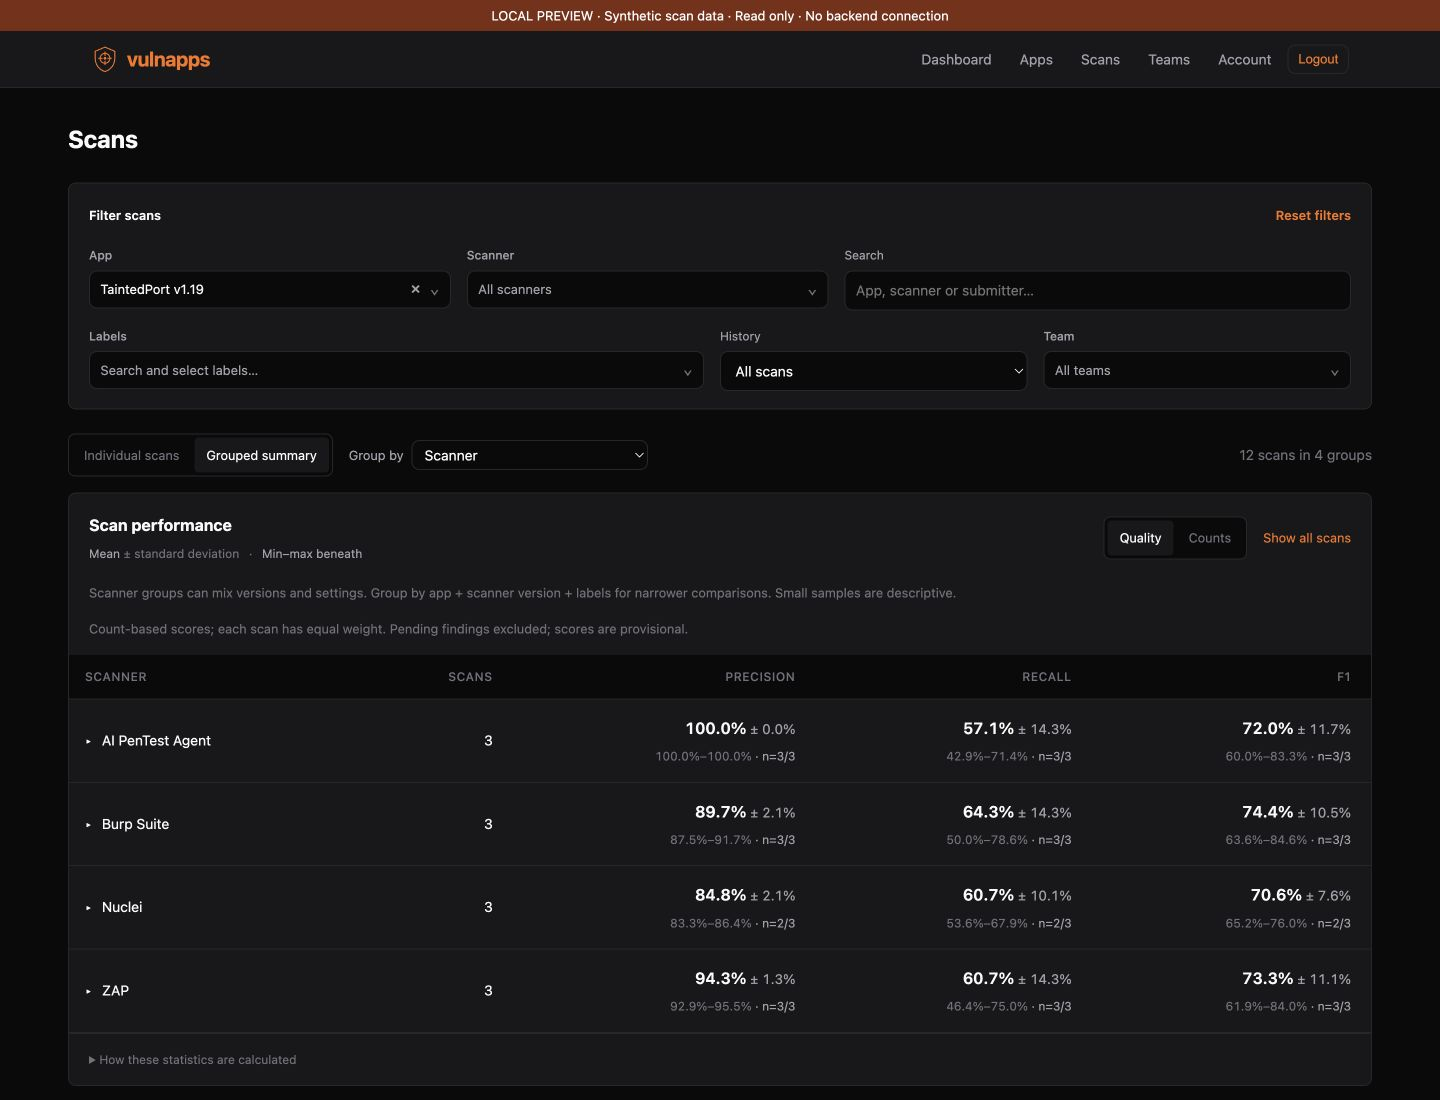
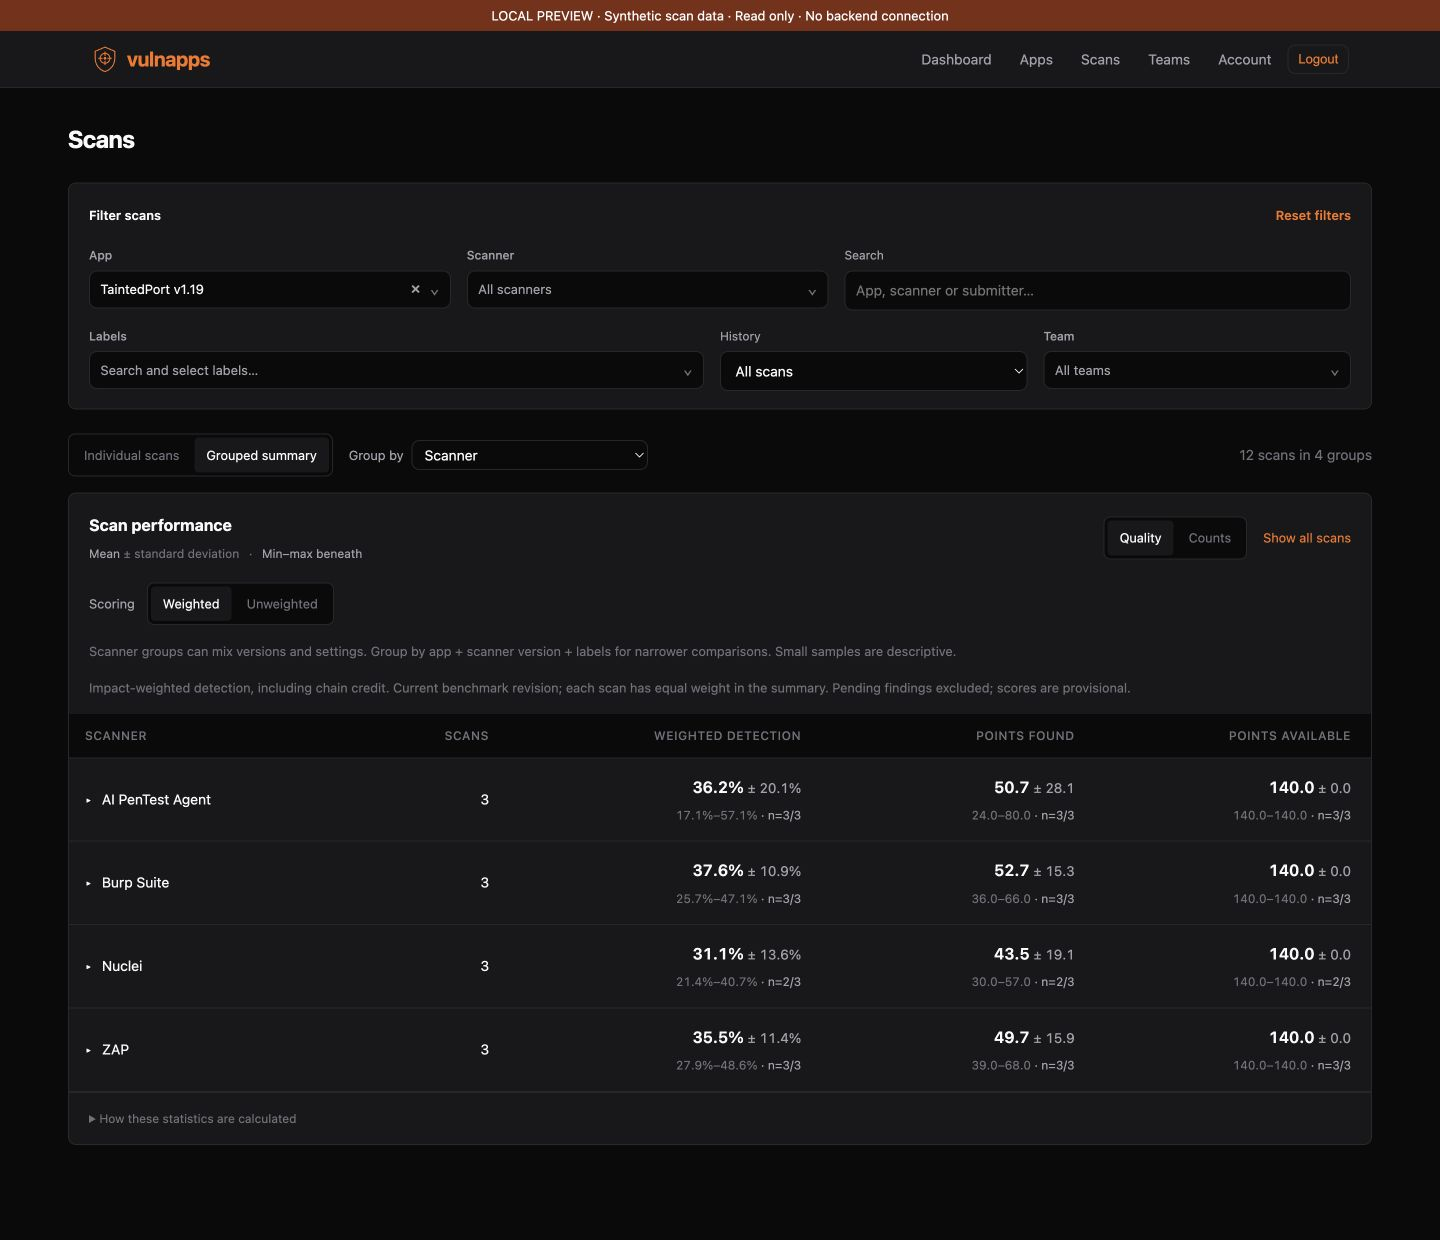
feat(scans): default summaries to weighted scoring

diff --git a/frontend/src/pages/ScansList.jsx b/frontend/src/pages/ScansList.jsx
@@ -37,8 +37,11 @@ export default function ScansList() {
   const [error, setError] = useState('');
   const requestId = useRef(0);
   const [metricView, setMetricView] = useState('quality');
+  const weighting = searchParams.get('weighting') === 'unweighted' ? 'unweighted' : 'weighted';
   const metricColumns = metricView === 'quality'
-    ? [['precision', 'Precision'], ['recall', 'Recall'], ['f1', 'F1']]
+    ? weighting === 'weighted'
+      ? [['weighted_rate', 'Weighted detection'], ['weighted_found', 'Points found'], ['weighted_total', 'Points available']]
+      : [['precision', 'Unweighted precision'], ['recall', 'Unweighted recall'], ['f1', 'Unweighted F1']]
     : [['tp_count', 'TP'], ['fp_count', 'FP'], ['pending_count', 'Pending'], ['fn_count', 'FN']];
   const [expanded, setExpanded] = useState(new Set());
   const groupBy = Object.hasOwn(scanGroupOptions, searchParams.get('group_by')) ? searchParams.get('group_by') : '';
@@ -60,6 +63,7 @@ export default function ScansList() {
   const queryParams = new URLSearchParams(Object.entries(params).filter(([, value]) => value));
   labelValues.forEach(label => queryParams.append('label', label));
   if (labelValues.length) queryParams.set('label_match', labelMatch);
+  if (groupBy) queryParams.set('include_metrics', 'true');
   const query = queryParams.toString();
   const fetchScans = () => {
     const id = ++requestId.current;
@@ -67,7 +71,7 @@ export default function ScansList() {
     return api.get(`/scans?${query}`).then(d => {
       if (id === requestId.current) { setData(d); setLoading(false); }
     }).catch(err => {
-      if (id === requestId.current) { setError(err.message); setLoading(false); }
+      if (id === requestId.current) { setData(null); setError(err.message); setLoading(false); }
     });
   };
   useEffect(() => {
@@ -327,7 +331,7 @@ export default function ScansList() {
       {user && (
         <section className="scan-filters mb-2" aria-label="Filter scans">
           <div className="scan-filter-heading"><span>Filter scans</span>
-            {hasFilters && <button className="scan-text-button" onClick={() => setSearchParams(groupBy ? { group_by: groupBy } : {})}>Reset filters</button>}
+            {hasFilters && <button className="scan-text-button" onClick={() => setSearchParams({ ...(groupBy ? { group_by: groupBy } : {}), ...(weighting === 'unweighted' ? { weighting } : {}) })}>Reset filters</button>}
           </div>
           <div className="scan-filter-primary">
             <SearchableFilter label="App" placeholder="All apps" value={params.app_id}
@@ -392,7 +396,7 @@ export default function ScansList() {
         </div>
       )}
 
-      {scans.length > 0 ? (
+      {error ? null : scans.length > 0 ? (
         groupBy ? <div className="card scan-summary-card">
           <div className="scan-summary-heading">
             <div><h2>Scan performance</h2><p>Mean <span className="text-muted">± standard deviation</span><span className="scan-legend-divider">·</span>Min–max beneath</p></div>
@@ -403,12 +407,18 @@ export default function ScansList() {
               {expanded.size === groups.length ? 'Hide all scans' : 'Show all scans'}
             </button></div>
           </div>
+          {metricView === 'quality' && <div className="scan-weighting-control">
+            <span>Scoring</span><div className="scan-segmented" role="group" aria-label="Scoring weights">
+              <button aria-pressed={weighting === 'weighted'} onClick={() => setFilter('weighting', '')}>Weighted</button>
+              <button aria-pressed={weighting === 'unweighted'} onClick={() => setFilter('weighting', 'unweighted')}>Unweighted</button>
+            </div>
+          </div>}
           <p className="scan-summary-note">{groupBy === 'configuration'
             ? 'Groups share an app, scanner version and exact label set. Unrecorded settings may still differ.'
             : groupBy === 'scanner' ? 'Scanner groups can mix versions and settings. Group by app + scanner version + labels for narrower comparisons.'
             : groupBy === 'scanner_version' ? 'Scanner versions may still span different apps and label sets.' : 'Groups may include different scanners and settings.'} Small samples are descriptive.</p>
           {groupBy === 'label' && <p className="scan-summary-note">A scan can belong to multiple label groups. The overall scan count counts each scan once.</p>}
-          {metricView === 'quality' && <p className="scan-summary-note">Count-based scores; each scan has equal weight. {scans.some(scan => (scan.pending_count ?? 0) > 0) && 'Pending findings excluded; scores are provisional.'}</p>}
+          {metricView === 'quality' && <p className="scan-summary-note">{weighting === 'weighted' ? 'Impact-weighted detection, including chain credit. Current benchmark revision; each scan has equal weight in the summary.' : 'Count-based scores; each scan has equal weight.'} {scans.some(scan => (scan.pending_count ?? 0) > 0) && 'Pending findings excluded; scores are provisional.'}</p>}
           <div className="table-wrap">
           <table className="scan-aggregation">
             <thead><tr><th>{scanGroupOptions[groupBy]}</th><th>Scans</th>
@@ -421,7 +431,8 @@ export default function ScansList() {
                 <td data-label="Scans">{group.scans.length}</td>
                 {metricColumns.map(([field, label]) => {
                   const stats = scanStatistics(metricView === 'quality' ? group.scans.map(scanQuality) : group.scans, field);
-                  const format = value => value === null ? '—' : metricView === 'quality' ? `${(value * 100).toFixed(1)}%` : value.toFixed(1);
+                  const percent = ['weighted_rate', 'precision', 'recall', 'f1'].includes(field);
+                  const format = value => value === null ? '—' : percent ? `${(value * 100).toFixed(1)}%` : value.toFixed(1);
                   return <td key={field} data-label={label}>
                     <div className="scan-statistics">
                       <div className="scan-stat-primary" aria-label={`Mean ${stats.mean === null ? 'unavailable' : format(stats.mean)}, standard deviation ${stats.std === null ? 'unavailable' : format(stats.std)}`}>
@@ -441,7 +452,7 @@ export default function ScansList() {
           </table>
         </div>
           <details className="scan-stat-help"><summary>How these statistics are calculated</summary>
-            <p>Each scan has equal weight; scores are calculated per scan before averaging (macro average). Precision = TP/(TP+FP), recall = TP/(TP+FN), F1 = 2TP/(2TP+FP+FN). Pending findings are excluded, so quality scores remain provisional while findings are pending. Undefined ratios are excluded, not counted as zero. Percentage standard deviations describe percentage-point spread. We show the arithmetic mean, sample standard deviation (n−1), and minimum–maximum. Missing values are excluded; n shows the measured/total scans for each metric. Small samples describe observed variation, not evidence of a performance difference. Standard deviation is unavailable for a single scan. Counts are per scan, not distinct findings across scans. Comparisons are most meaningful within the same app version and benchmark corpus; mixed groups are descriptive summaries, not controlled model evaluations.</p>
+            <p>Weighted detection uses the same current-revision scorer as scan detail: credited vulnerability and chain impact points / available impact points. Weighted precision and weighted F1 are not defined here. Unweighted metrics use vulnerability counts and clustered false positives from that scorer. Each scan has equal weight; scores are calculated per scan before averaging (macro average). Precision = TP/(TP+FP), recall = TP/(TP+FN), F1 = 2TP/(2TP+FP+FN). Pending findings are excluded, so quality scores remain provisional while findings are pending. Undefined ratios are excluded, not counted as zero. Percentage standard deviations describe percentage-point spread. We show the arithmetic mean, sample standard deviation (n−1), and minimum–maximum. Missing values are excluded; n shows the measured/total scans for each metric. Small samples describe observed variation, not evidence of a performance difference. Standard deviation is unavailable for a single scan. Counts are per scan, not distinct findings across scans. Comparisons are most meaningful within the same app version and benchmark corpus; mixed groups are descriptive summaries, not controlled model evaluations.</p>
           </details>
         </div> : renderScanTable(scans)
       ) : (

diff --git a/frontend/src/utils/scanStatistics.js b/frontend/src/utils/scanStatistics.js
@@ -10,10 +10,17 @@ export function scanStatistics(scans, field) {
 }
 
 export function scanQuality(scan) {
-  const { tp_count: tp, fp_count: fp, fn_count: fn } = scan;
+  const metrics = scan.metrics;
+  const tp = metrics ? metrics.tp : scan.tp_count;
+  const fp = metrics ? metrics.fp_groups : scan.fp_count;
+  const fn = metrics ? metrics.fn : scan.fn_count;
   const valid = (...values) => values.every(value => Number.isFinite(value) && value >= 0);
   return {
     ...scan,
+    weighted_found: valid(metrics?.weighted_found) ? metrics.weighted_found : null,
+    weighted_total: valid(metrics?.weighted_total) ? metrics.weighted_total : null,
+    weighted_rate: valid(metrics?.weighted_found, metrics?.weighted_total) && metrics.weighted_total > 0
+      ? metrics.weighted_found / metrics.weighted_total : null,
     precision: valid(tp, fp) && tp + fp > 0 ? tp / (tp + fp) : null,
     recall: valid(tp, fn) && tp + fn > 0 ? tp / (tp + fn) : null,
     f1: valid(tp, fp, fn) && 2 * tp + fp + fn > 0 ? 2 * tp / (2 * tp + fp + fn) : null,

diff --git a/frontend/src/utils/scanStatistics.test.js b/frontend/src/utils/scanStatistics.test.js
@@ -32,3 +32,15 @@ test('computes per-scan quality and excludes undefined denominators rather than 
   const runs = [scanQuality({ tp_count: 1, fp_count: 0, fn_count: 0 }), scanQuality({ tp_count: 1, fp_count: 9, fn_count: 0 })];
   assert.equal(scanStatistics(runs, 'precision').mean, 0.55);
 });
+
+test('weighted detection uses canonical impact points, including fractional credit, with no count fallback', () => {
+  const scan = scanQuality({ tp_count: 9, fp_count: 0, fn_count: 1,
+    metrics: { tp: 1, fp_groups: 1, fn: 3, weighted_found: 13.5, weighted_total: 30 } });
+  assert.equal(scan.weighted_rate, 0.45);
+  assert.equal(scan.weighted_found, 13.5);
+  assert.equal(scan.recall, 0.25);
+  assert.equal(scan.precision, 0.5);
+  assert.equal(scanQuality({ tp_count: 9, fn_count: 1 }).weighted_rate, null);
+  assert.equal(scanQuality({ metrics: { weighted_found: 0, weighted_total: 0 } }).weighted_rate, null);
+  assert.equal(scanQuality({ metrics: { weighted_found: 0, weighted_total: 30 } }).weighted_rate, 0);
+});

diff --git a/frontend/vite.preview.config.js b/frontend/vite.preview.config.js
@@ -70,7 +70,14 @@ function scanResponse(params) {
       });
   }
   return {
-    scans: rows.sort((a, b) => b.created_at.localeCompare(a.created_at)),
+    scans: rows.map((scan, i) => params.get('include_metrics') === 'true' ? {
+      ...scan,
+      metrics: {
+        tp: scan.tp_count, fp_groups: scan.fp_count, fn: scan.fn_count,
+        weighted_found: scan.tp_count === null ? null : scan.tp_count * (2 + scan.id % 3),
+        weighted_total: scan.tp_count === null ? null : 140,
+      },
+    } : scan).sort((a, b) => b.created_at.localeCompare(a.created_at)),
     scan_labels_map: Object.fromEntries(rows.map(scan => [scan.id, scanLabels[scan.id]])),
     scanners: [...new Set(scans.filter(scan => !appId || String(scan.app_id) === appId).map(scan => scan.scanner_name))].sort(),
     apps_list: [...apps].sort((a, b) => a.name.localeCompare(b.name)),

diff --git a/frontend/src/style.css b/frontend/src/style.css
@@ -967,3 +967,4 @@ th.sort-desc::after { content: ' ▼'; font-size: 0.625rem; }
 .scan-stat-help p { max-width: 850px; line-height: 1.6; margin: 0.75rem 0 0; }
 .scan-summary-actions { display: flex; align-items: center; gap: 1rem; }
 .scan-group-description { display: block; margin-top: 0.4rem; max-width: 340px; color: var(--text-muted); font-size: 0.75rem; line-height: 1.5; overflow-wrap: anywhere; }
+.scan-weighting-control { display: flex; gap: 0.75rem; align-items: center; padding: 0 1.25rem 1rem; color: var(--text-secondary); font-size: 0.8rem; }

diff --git a/tests/test_scoring_revisions.py b/tests/test_scoring_revisions.py
@@ -409,3 +409,58 @@ async def test_an_explicit_weight_override_survives_an_unrelated_edit(db):
     })
     cursor = await db.execute("SELECT * FROM vulnerabilities WHERE id = ?", (vuln_id,))
     assert (await cursor.fetchone())["impact_weight"] == 27
+
+
+async def test_scan_list_metrics_match_live_scoring_across_corpora_and_chain_credit(db):
+    app_id = await make_app(db)
+    v1 = await add_vuln(db, app_id, "V-1", weight=9, url="/first")
+    v2 = await add_vuln(db, app_id, "V-2", weight=3, url="/second")
+    cursor = await db.execute(
+        "INSERT INTO chains (app_id, chain_id, title, impact_weight, existed_since_revision) "
+        "VALUES (?, 'C-1', 'Demo chain', 27, 1)", (app_id,),
+    )
+    chain_id = cursor.lastrowid
+    await db.executemany(
+        "INSERT INTO chain_members (chain_pk, vuln_id, step_order) VALUES (?, ?, ?)",
+        [(chain_id, v1, 1), (chain_id, v2, 2)],
+    )
+    await db.commit()
+    partial_id = await submit(db, app_id, [{"vuln_type": "SQLi", "url": "/first"}])
+    full_id = await submit(db, app_id, [
+        {"vuln_type": "SQLi", "url": "/first"}, {"vuln_type": "SQLi", "url": "/second"},
+    ])
+    await db.execute(
+        "INSERT INTO scan_chain_credits (scan_id, chain_pk, credited_by) VALUES (?, ?, 1)",
+        (full_id, chain_id),
+    )
+    direct_id = await submit(db, app_id, [{"vuln_type": "IDOR", "url": "/chain"}])
+    cursor = await db.execute("SELECT id FROM scan_findings WHERE scan_id = ?", (direct_id,))
+    await finding_matches.replace(db, (await cursor.fetchone())["id"], [], [chain_id])
+    await scoring_service.create_revision(db, app_id, "corpus_change", "new application flaw")
+    await add_vuln(db, app_id, "V-3", weight=27, url="/new", existed_since=2)
+    later_id = await submit(db, app_id, [{"vuln_type": "SQLi", "url": "/new"}])
+    empty_app = await make_app(db, "Empty corpus")
+    await db.execute("UPDATE apps SET version = '2.0' WHERE id = ?", (empty_app,))
+    empty_id = await submit(db, empty_app, [])
+    await db.commit()
+
+    ordinary = await scans_service.list_scans(db, ADMIN)
+    assert all("metrics" not in scan.keys() for scan in ordinary["scans"])
+    result = await scans_service.list_scans(db, ADMIN, include_metrics=True)
+    scans = {scan["id"]: scan for scan in result["scans"]}
+    for scan in scans.values():
+        revision = await scoring_service.latest_revision(db, scan["app_id"])
+        expected = (await scoring_service.score(db, scan, revision))["metrics"]
+        assert scan["metrics"]
+        for key, value in scan["metrics"].items():
+            assert value == expected[key], (scan["id"], key)
+            assert isinstance(value, (int, float, bool))
+    # Partial chain members receive only their own points, never inferred chain credit.
+    assert scans[partial_id]["metrics"]["weighted_found"] == 9
+    assert scans[partial_id]["metrics"]["weighted_total"] == 39
+    assert scans[full_id]["metrics"]["weighted_found"] == 39
+    assert scans[direct_id]["metrics"]["weighted_found"] == 27
+    assert scans[later_id]["metrics"]["weighted_total"] == 66
+    assert scans[empty_id]["metrics"]["weighted_total"] == 0
+    assert scans[empty_id]["metrics"]["weighted_rate"] == 0
+    assert (await scans_service.list_scans(db, None, include_metrics=True))["scans"] == []

diff --git a/app/services/scoring.py b/app/services/scoring.py
@@ -222,3 +222,55 @@ async def score(db, scan, revision: int) -> dict:
         "findings": findings,
         "revision": revision,
     }
+
+
+async def score_many(db, scans) -> dict[int, dict]:
+    """Current canonical metrics for an already-authorized scan list.
+
+    Share corpus reads by app/revision and batch scan-specific reads. Scope
+    uses the same helpers as score(), including each scan's corpus revision.
+    """
+    scans = list(scans)
+    if not scans:
+        return {}
+    findings_by_scan = {scan["id"]: [] for scan in scans}
+    confirmed_by_scan = {scan["id"]: set() for scan in scans}
+    for start in range(0, len(scans), 400):
+        scan_ids = [scan["id"] for scan in scans[start:start + 400]]
+        placeholders = ",".join("?" for _ in scan_ids)
+        cursor = await db.execute(
+            f"SELECT * FROM scan_findings WHERE scan_id IN ({placeholders}) ORDER BY id",
+            scan_ids,
+        )
+        findings = await cursor.fetchall()
+        for offset in range(0, len(findings), 400):
+            hydrated = await finding_matches.attach(db, findings[offset:offset + 400])
+            for finding in hydrated:
+                findings_by_scan[finding["scan_id"]].append(finding)
+        cursor = await db.execute(
+            f"SELECT scan_id, chain_pk FROM scan_chain_credits WHERE scan_id IN ({placeholders})",
+            scan_ids,
+        )
+        for row in await cursor.fetchall():
+            confirmed_by_scan[row["scan_id"]].add(row["chain_pk"])
+
+    revisions = {}
+    scopes = {}
+    metrics = {}
+    for scan in scans:
+        app_id = scan["app_id"]
+        if app_id not in revisions:
+            revisions[app_id] = await latest_revision(db, app_id)
+        revision = revisions[app_id]
+        corpus_revision = int(scoring.field(scan, "corpus_revision", revision) or revision)
+        key = (app_id, revision, corpus_revision)
+        if key not in scopes:
+            scopes[key] = (
+                await fetch_vulns_in_scope(db, app_id, revision, corpus_revision),
+                await fetch_chains_in_scope(db, app_id, revision, corpus_revision),
+            )
+        vulns, chains = scopes[key]
+        metrics[scan["id"]] = compute_metrics(
+            findings_by_scan[scan["id"]], vulns, chains, confirmed_by_scan[scan["id"]],
+        )
+    return metrics

diff --git a/app/services/scans.py b/app/services/scans.py
@@ -134,7 +134,7 @@ async def _live_metrics(db, scan, revision=None):
 async def list_scans(
     db, user,
     app_id=None, scanner="", latest="", q="",
-    label="", filter="", label_match="all",
+    label="", filter="", label_match="all", include_metrics=False,
 ) -> dict:
     """List scans with filters. Returns dict with scans, metadata, and filter options."""
     extra_filters = ""
@@ -263,6 +263,13 @@ async def list_scans(
     # placeholders), then the WHERE clause's visibility + extra-filter params.
     cursor = await db.execute(sql, sev_params + vis_params + extra_params)
     scans = await cursor.fetchall()
+    if include_metrics:
+        metrics = await scoring_service.score_many(db, scans)
+        detail_keys = {"tiers", "matched_vuln_ids", "missed_vuln_ids", "credit_by_vuln", "credit_by_chain"}
+        scans = [
+            dict(scan, metrics={key: value for key, value in metrics[scan["id"]].items() if key not in detail_keys})
+            for scan in scans
+        ]
 
     # Batch-fetch labels for all returned scans
     scan_labels_map: dict[int, list[dict]] = {}

diff --git a/tests/test_scan_label_filters.py b/tests/test_scan_label_filters.py
@@ -67,3 +67,8 @@ async def test_label_filters_support_all_any_and_single_label_urls(tmp_path, mon
             assert response.status_code == 200, response.text
             assert {scan["id"] for scan in response.json()["scans"]} == expected, query
         assert (await client.get('/api/scans?label_match=invalid')).status_code == 422
+        ordinary = (await client.get('/api/scans')).json()["scans"]
+        assert all("metrics" not in scan for scan in ordinary)
+        scored = (await client.get('/api/scans?include_metrics=true&label=blackbox')).json()["scans"]
+        assert {scan["id"] for scan in scored} == {1, 2}
+        assert all(scan["metrics"]["weighted_total"] == 0 for scan in scored)

diff --git a/app/routers/api/scans.py b/app/routers/api/scans.py
@@ -30,6 +30,7 @@ async def list_scans(
     label: list[str] = Query(default=[]),
     label_match: Literal["all", "any"] = "all",
     filter: str = "",
+    include_metrics: bool = False,
 ):
     user = request.state.user
     db = await get_connection()
@@ -50,6 +51,7 @@ async def list_scans(
             label=label,
             label_match=label_match,
             filter=filter,
+            include_metrics=include_metrics,
         )
     except ValueError as e:
         raise HTTPException(status_code=404, detail=str(e))

diff --git a/AppBuilder.md b/AppBuilder.md
@@ -1899,3 +1899,15 @@ explicitly unknown. Show app and labels beneath each configuration group name. T
 recorded configurations, not proof that unrecorded settings match. Every metric displays
 n=measured/total, including complete and singleton samples. Describe small samples as
 descriptive variation rather than evidence of performance differences.
+
+Quality summaries default to Weighted, with an explicit Unweighted toggle saved as
+`weighting=unweighted` in the URL. Weighted shows canonical impact-weighted detection,
+points found, and points available; no weighted precision/F1 is invented. Unweighted shows
+count-based precision, recall, and F1 from the same current-revision scorer. Each scan
+remains equally weighted when aggregating scores. Zero available points yields unavailable
+detection, not zero percent. Reset filters preserves the scoring choice.
+
+Grouped lists request `include_metrics=true`. The service batches authorized scans' scoring
+inputs, shares corpus/revision reads, and calls the canonical scoring implementation. The
+ordinary list omits this optional computation. Failed list requests clear stale results and
+show the load error rather than a misleading successful empty state.

diff --git a/tasks/todo.md b/tasks/todo.md
@@ -289,3 +289,10 @@ service was modified. Responsive changes are out of scope per Miguel.
 - [x] Add scanner-version and app + scanner-version + exact-label-set grouping.
 - [x] Always show measured/total sample counts and clarify small-sample interpretation.
 - [x] Verify five Node tests, production build, and browser grouping/singleton display.
+
+### Weighted scoring toggle
+- [x] Default grouped quality to canonical weighted detection; retain explicit unweighted metrics.
+- [x] Batch current-revision scoring inputs for authorized rows only; preserve legacy list cost.
+- [x] Verify score parity across app/corpus revisions, chain credit, and empty denominators.
+- [x] Pass 158 backend tests, six Node tests, frontend build, and browser toggle/reload checks.
+- [x] Refresh PR screenshots for both scoring modes.
